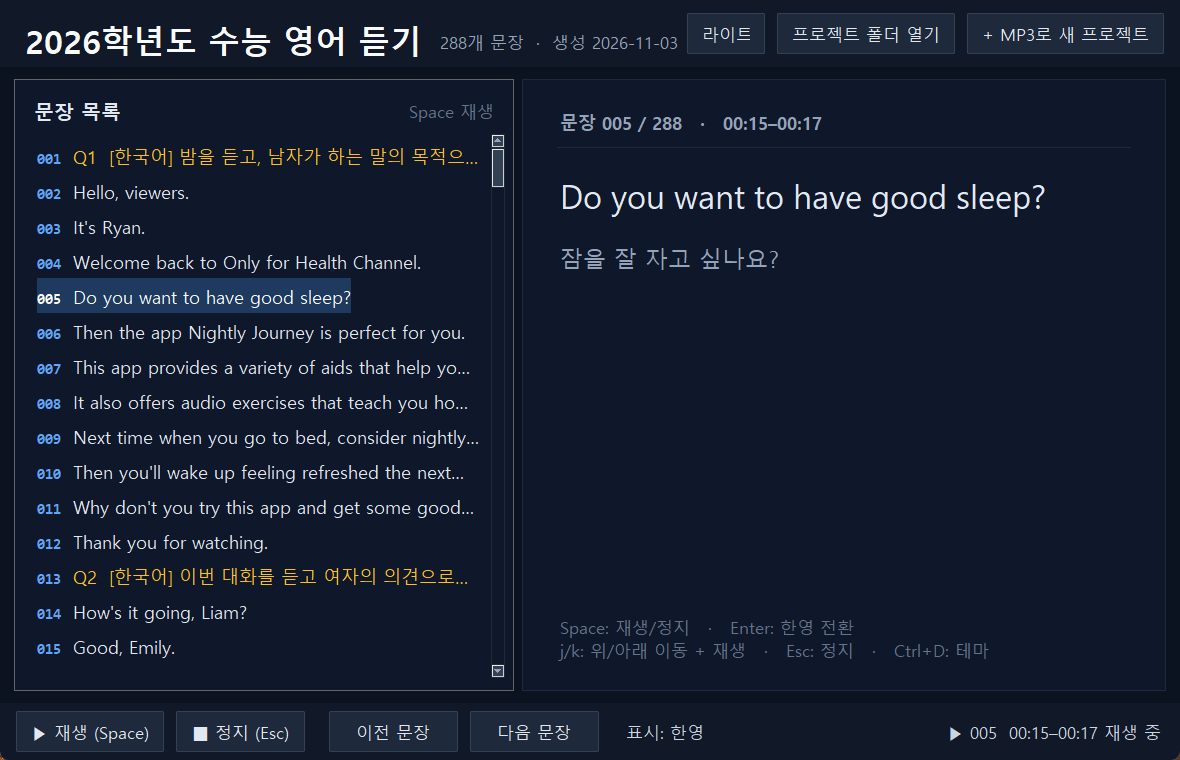
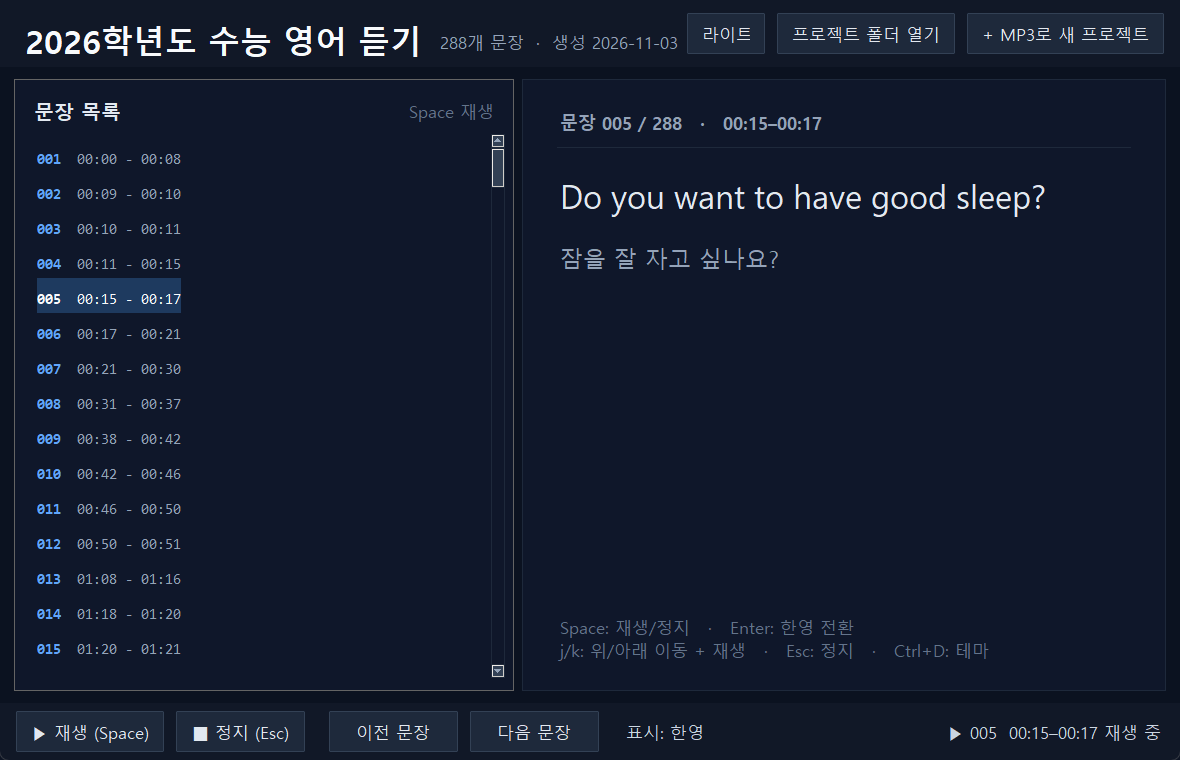
docs: refresh screenshots and demo for the time-only cue list
- update the GUI description to explain that English text stays out of the list

- regenerate light/dark screenshots and the 20s demo

diff --git a/README.md b/README.md
@@ -66,7 +66,8 @@ Linux에서 CUDA 없는 CPU만 쓴다면 위 `torch` 설치 명령을 그대로 
 python gui.py
 ```
 
-- 왼쪽: **문장 번호 + 본문 한 줄** 목록 (긴 문장은 폭에 맞춰 `…`로 줄임)
+- 왼쪽: **문장 번호 + 시작/종료 시간** 목록 (`005  00:15 - 00:17`)
+  - 영어 본문은 목록에 표시하지 않아 듣기 학습을 방해하지 않습니다.
 - 오른쪽: 선택한 문장의 영어/한국어 본문과 전체 문장
 - 상단 **`+ MP3로 새 프로젝트`**: MP3를 고르고 이름/Whisper 모델을 정하면
   `data/project/<파일명>/`에 프로젝트를 만들고, 진행률 창에 단계/퍼센트를
